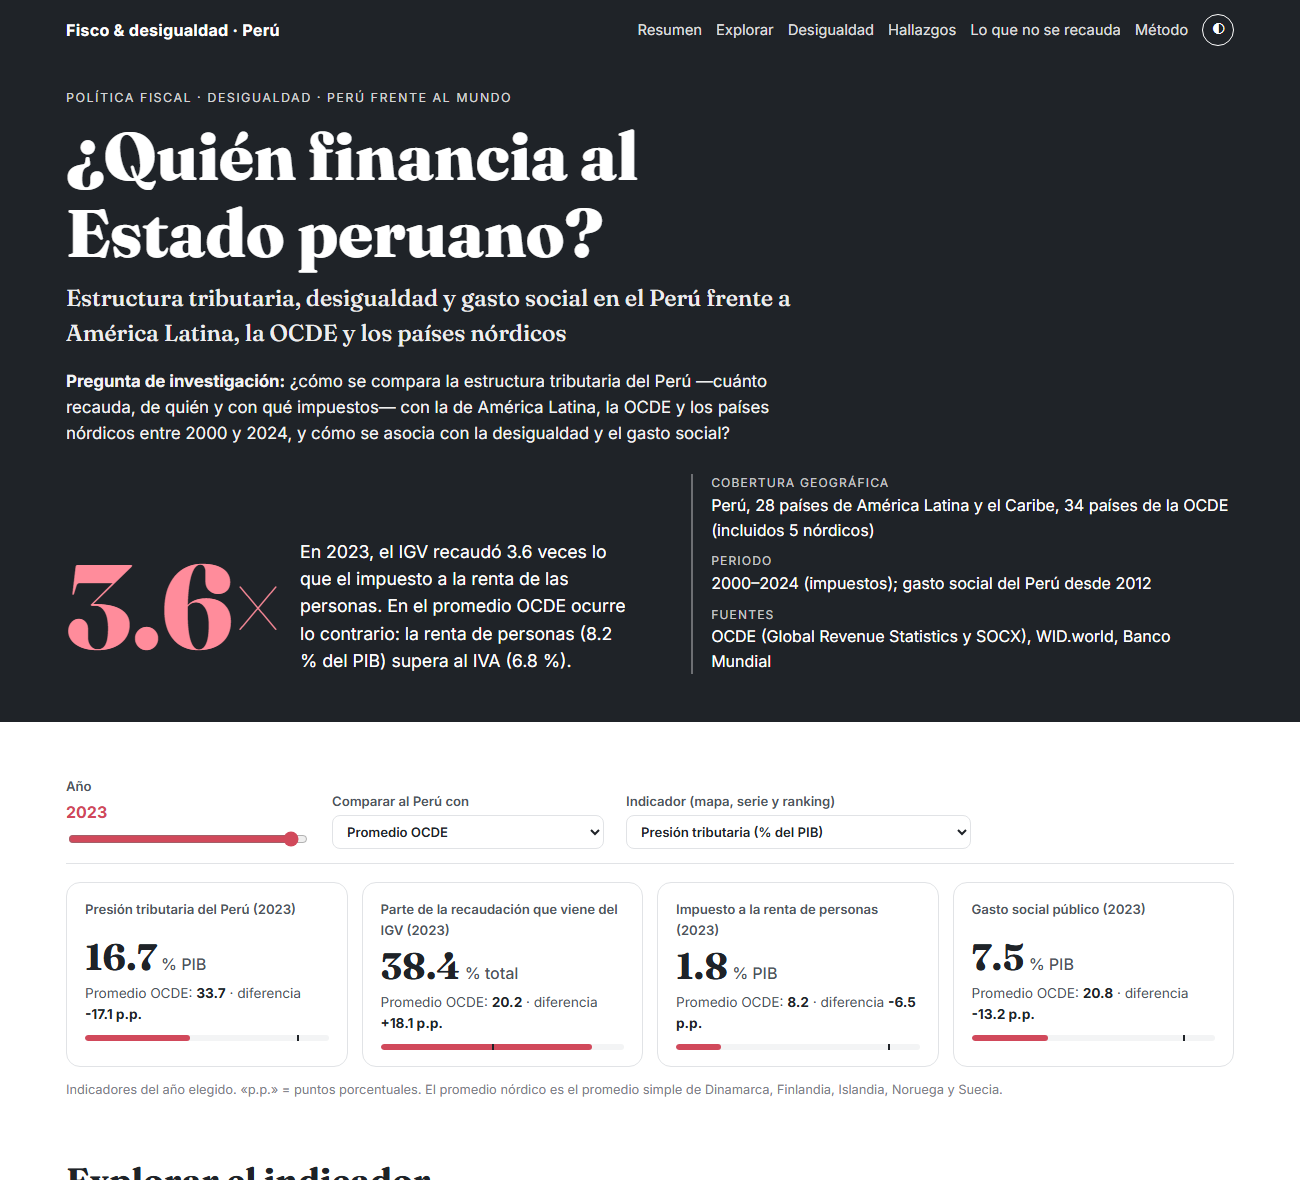
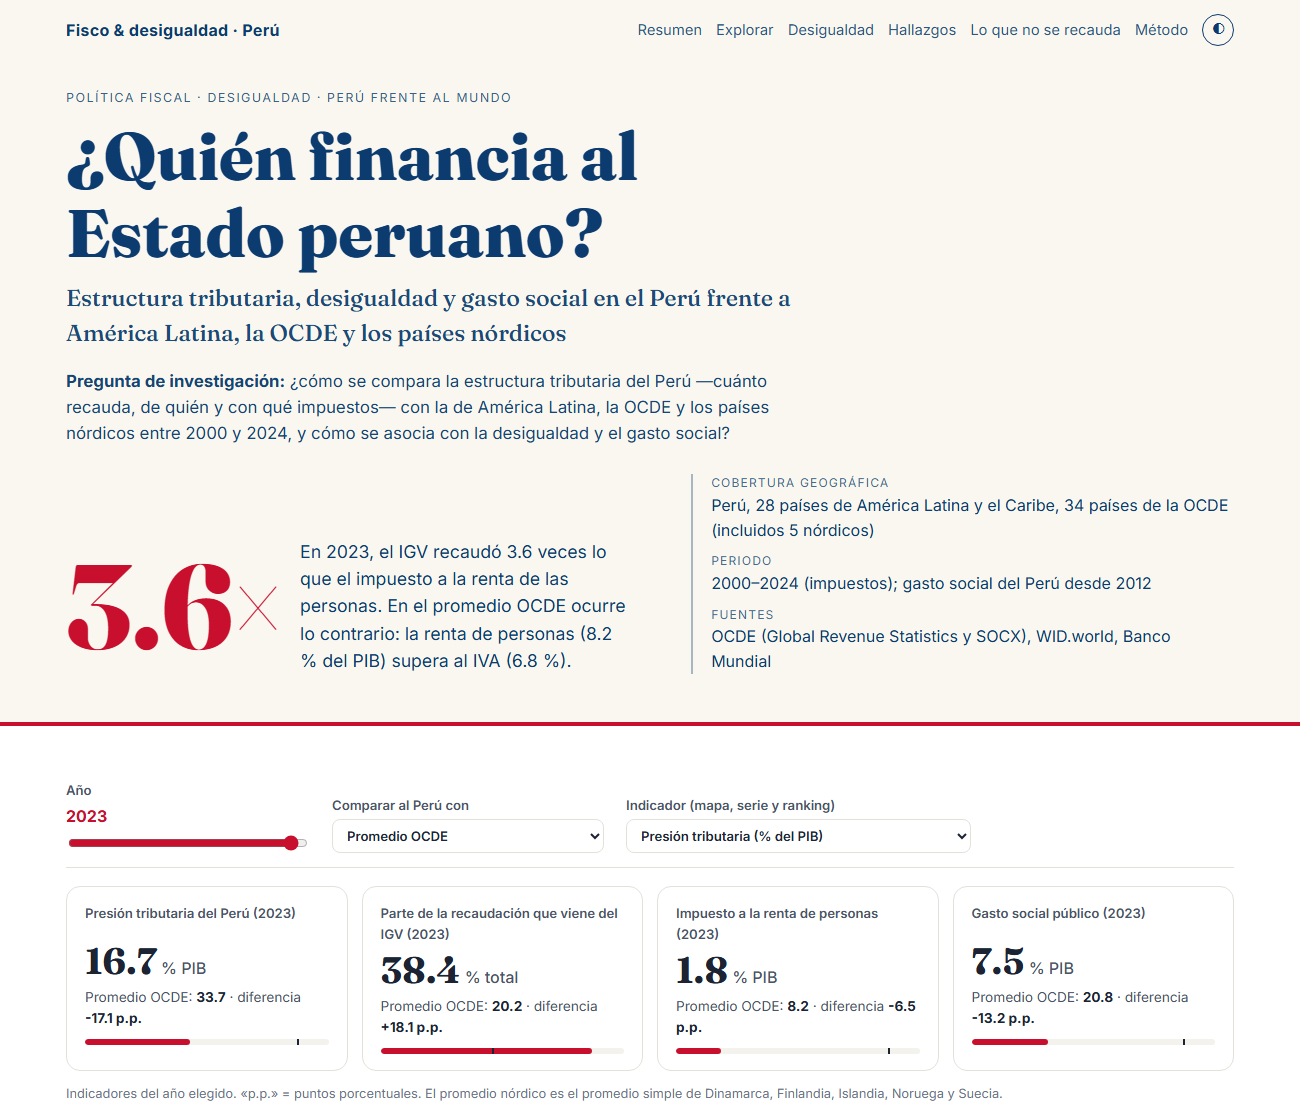
tarea_3 bloque C: paleta 1 «marfil» en el dashboard (portada marfil con línea roja; oscuro en azul profundo), mapa en azules y capturas 1 y 3 rehechas
18/18 pruebas de controles OK (17 + colores de la serie = tokens).

diff --git a/tarea_3/web/assets/style.css b/tarea_3/web/assets/style.css
@@ -1,43 +1,45 @@
 /* Tokens de color: la paleta se cambia solo aquí (claro y oscuro) */
 :root {
-  /* Paleta 3 "editorial" (elegida por Antonio), validada en Python: contraste y separación OKLab
-     con simulación de daltonismo (protanopia, deuteranopia, tritanopia) >= 10 entre los 4 grupos */
+  /* Paleta 1 «marfil» (elegida por Antonio): portada marfil con texto azul institucional y línea roja.
+     Validada en Python: separación OKLab entre los 4 grupos >= 11.8 (claro) y >= 13.2 (oscuro), también
+     con simulación de protanopia, deuteranopia y tritanopia */
   color-scheme: light;
   --bg: #FFFFFF;
   --surface: #FFFFFF;
-  --surface-2: #F3F4F5;
-  --ink: #1F2328;
-  --ink-2: #4E555C;
-  --muted: #7A8188;
-  --line: #E1E3E6;
-  --brand: #00798C;
-  --accent: #D1495B;      /* Perú */
-  --g-alc: #D4952B;
-  --g-ocde: #2FA3B3;
-  --g-nor: #1E3F66;
-  --hero-bg: #1F2328;
-  --hero-ink: #FFFFFF;
-  --hero-big: #FF8C9B;
-  --seq: "#E6F4F6,#BFE3E8,#8DCBD4,#55AEBB,#2A8E9C,#0F6E7C,#05505B";
-  --c1: #1E3F66; --c2: #2FA3B3; --c3: #A9D6DC; --c4: #7D848B; --c5: #D4952B; --c6: #F0CF8E; --c7: #6A4C93;
+  --surface-2: #F4F2EC;
+  --ink: #1C2433;
+  --ink-2: #4A5468;
+  --muted: #6B7489;
+  --line: #E3E1DA;
+  --brand: #1D4E89;
+  --accent: #C8102E;      /* Perú */
+  --g-alc: #B8862A;
+  --g-ocde: #1D3A66;
+  --g-nor: #4A90D9;
+  --hero-bg: #FAF7F0;
+  --hero-ink: #0B3B6F;
+  --hero-big: #C8102E;
+  --hero-line: #C8102E;
+  --seq: "#EAF1FA,#C9DBF1,#9DBEE6,#6C9BD6,#4277BF,#22579F,#123C73";
+  --c1: #1D3A66; --c2: #4A90D9; --c3: #A9C8EC; --c4: #8A9096; --c5: #B8862A; --c6: #E6CC8A; --c7: #7A8F3A;
 }
 @media (prefers-color-scheme: dark) {
   :root:not([data-theme="light"]) {
     color-scheme: dark;
-    --bg: #121417; --surface: #1B1E22; --surface-2: #24282D; --ink: #EEF0F2; --ink-2: #B9BFC6; --muted: #8E959C;
-    --line: #30353B; --brand: #5CC6D3; --accent: #FF8C9B; --g-alc: #F2BE5C; --g-ocde: #25838F; --g-nor: #B4C6FF;
-    --hero-bg: #0B0D10; --hero-ink: #EEF0F2; --hero-big: #FF8C9B;
-    --seq: "#14353A,#18505A,#1D6B78,#2A8896,#4BA7B3,#7FC4CD,#BCE1E6";
-    --c1: #8FB0FF; --c2: #2FA3B3; --c3: #1F5C66; --c4: #8A9096; --c5: #F2BE5C; --c6: #8A6A2E; --c7: #B79AE0;
+    --bg: #0F1726; --surface: #16213A; --surface-2: #1D2A45; --ink: #F1EEE6; --ink-2: #BFC8D6; --muted: #8E9AAE;
+    --line: #2A3958; --brand: #8DB6F2; --accent: #FF6B6B; --g-alc: #F2C14E; --g-ocde: #7FA8E8; --g-nor: #C9DCF5;
+    --hero-bg: #1A2B45; --hero-ink: #F5EFE3; --hero-big: #FF7A85; --hero-line: #FF6B6B;
+    --seq: "#152238,#1C3354,#24467A,#3361A3,#5384C7,#86ABE0,#C2D6F3";
+    --c1: #7FA8E8; --c2: #C9DCF5; --c3: #3F5F8F; --c4: #8A9096; --c5: #F2C14E; --c6: #8A6A2E; --c7: #A8BF6A;
   }
 }
 :root[data-theme="dark"] {
   color-scheme: dark;
-  --bg: #121417; --surface: #1B1E22; --surface-2: #24282D; --ink: #EEF0F2; --ink-2: #B9BFC6; --muted: #8E959C;
-  --line: #30353B; --brand: #5CC6D3; --accent: #FF8C9B; --g-alc: #F2BE5C; --g-ocde: #25838F; --g-nor: #B4C6FF;
-  --hero-bg: #0B0D10; --hero-ink: #EEF0F2; --hero-big: #FF8C9B;
-  --seq: "#14353A,#18505A,#1D6B78,#2A8896,#4BA7B3,#7FC4CD,#BCE1E6";
-  --c1: #8FB0FF; --c2: #2FA3B3; --c3: #1F5C66; --c4: #8A9096; --c5: #F2BE5C; --c6: #8A6A2E; --c7: #B79AE0;
+  --bg: #0F1726; --surface: #16213A; --surface-2: #1D2A45; --ink: #F1EEE6; --ink-2: #BFC8D6; --muted: #8E9AAE;
+  --line: #2A3958; --brand: #8DB6F2; --accent: #FF6B6B; --g-alc: #F2C14E; --g-ocde: #7FA8E8; --g-nor: #C9DCF5;
+  --hero-bg: #1A2B45; --hero-ink: #F5EFE3; --hero-big: #FF7A85; --hero-line: #FF6B6B;
+  --seq: "#152238,#1C3354,#24467A,#3361A3,#5384C7,#86ABE0,#C2D6F3";
+  --c1: #7FA8E8; --c2: #C9DCF5; --c3: #3F5F8F; --c4: #8A9096; --c5: #F2C14E; --c6: #8A6A2E; --c7: #A8BF6A;
 }
 
 * { box-sizing: border-box; }
@@ -52,7 +54,7 @@ h2 { font-size: clamp(1.6rem, 3vw, 2.2rem); }
 h3 { font-size: 1.1rem; }
 
 /* Portada */
-.hero { background: var(--hero-bg); color: var(--hero-ink); }
+.hero { background: var(--hero-bg); color: var(--hero-ink); border-bottom: 4px solid var(--hero-line); }
 .nav {
   max-width: 1200px; margin: 0 auto; padding: 14px 16px; display: flex; gap: 12px;
   justify-content: space-between; align-items: center; flex-wrap: wrap;
@@ -73,7 +75,7 @@ h3 { font-size: 1.1rem; }
 .big { font-family: Fraunces, Georgia, serif; font-weight: 800; font-size: clamp(4rem, 12vw, 7.5rem); line-height: .9; color: var(--accent); }
 .hero .big { color: var(--hero-big); }
 .hero-txt { font-size: 1.1rem; max-width: 30ch; }
-.ficha { margin: 0; display: grid; gap: 10px; border-left: 2px solid rgba(255,255,255,.35); padding-left: 18px; }
+.ficha { margin: 0; display: grid; gap: 10px; border-left: 2px solid color-mix(in srgb, var(--hero-ink) 35%, transparent); padding-left: 18px; }
 .ficha dt { font-size: .75rem; text-transform: uppercase; letter-spacing: .1em; opacity: .75; }
 .ficha dd { margin: 0; }
 
